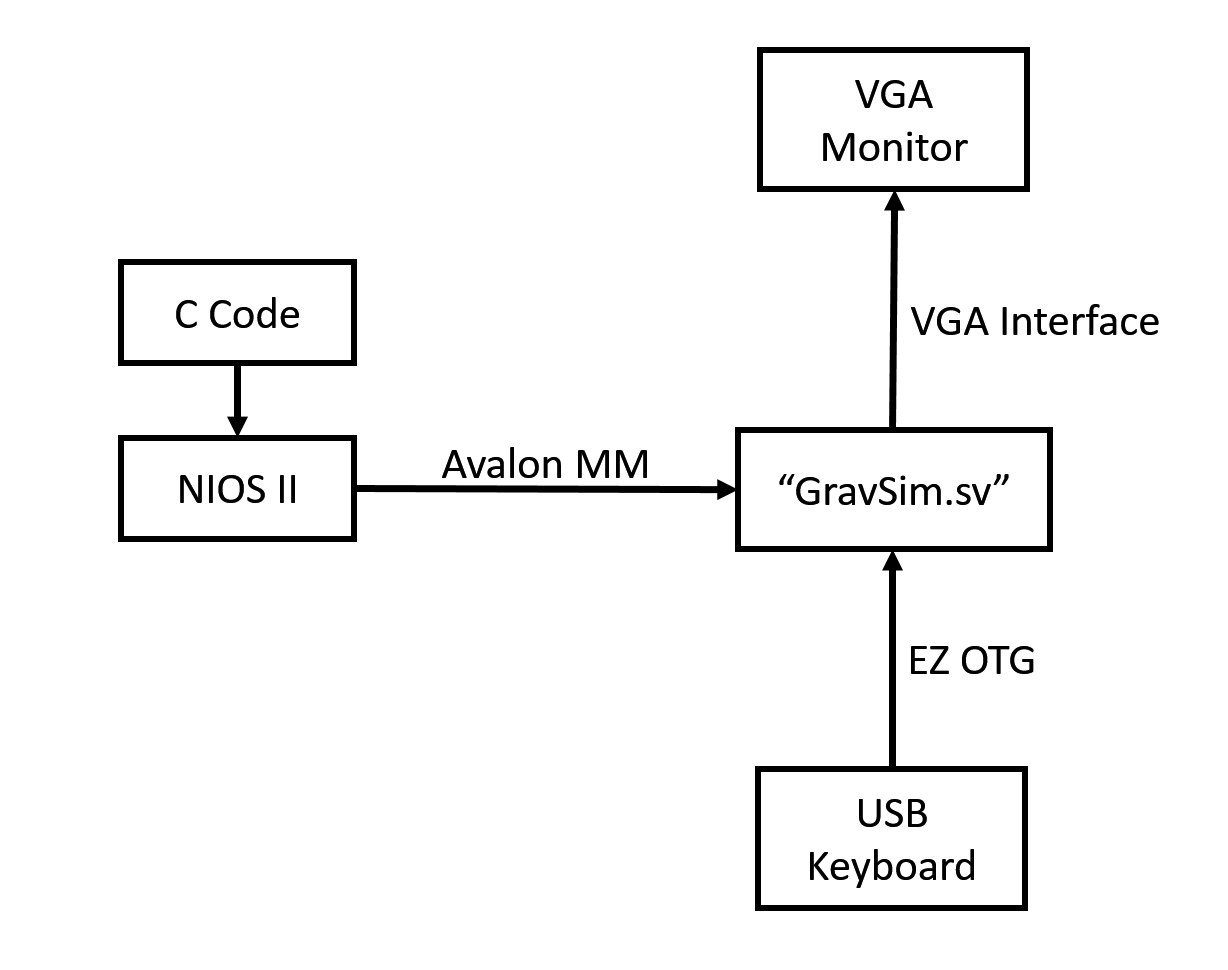
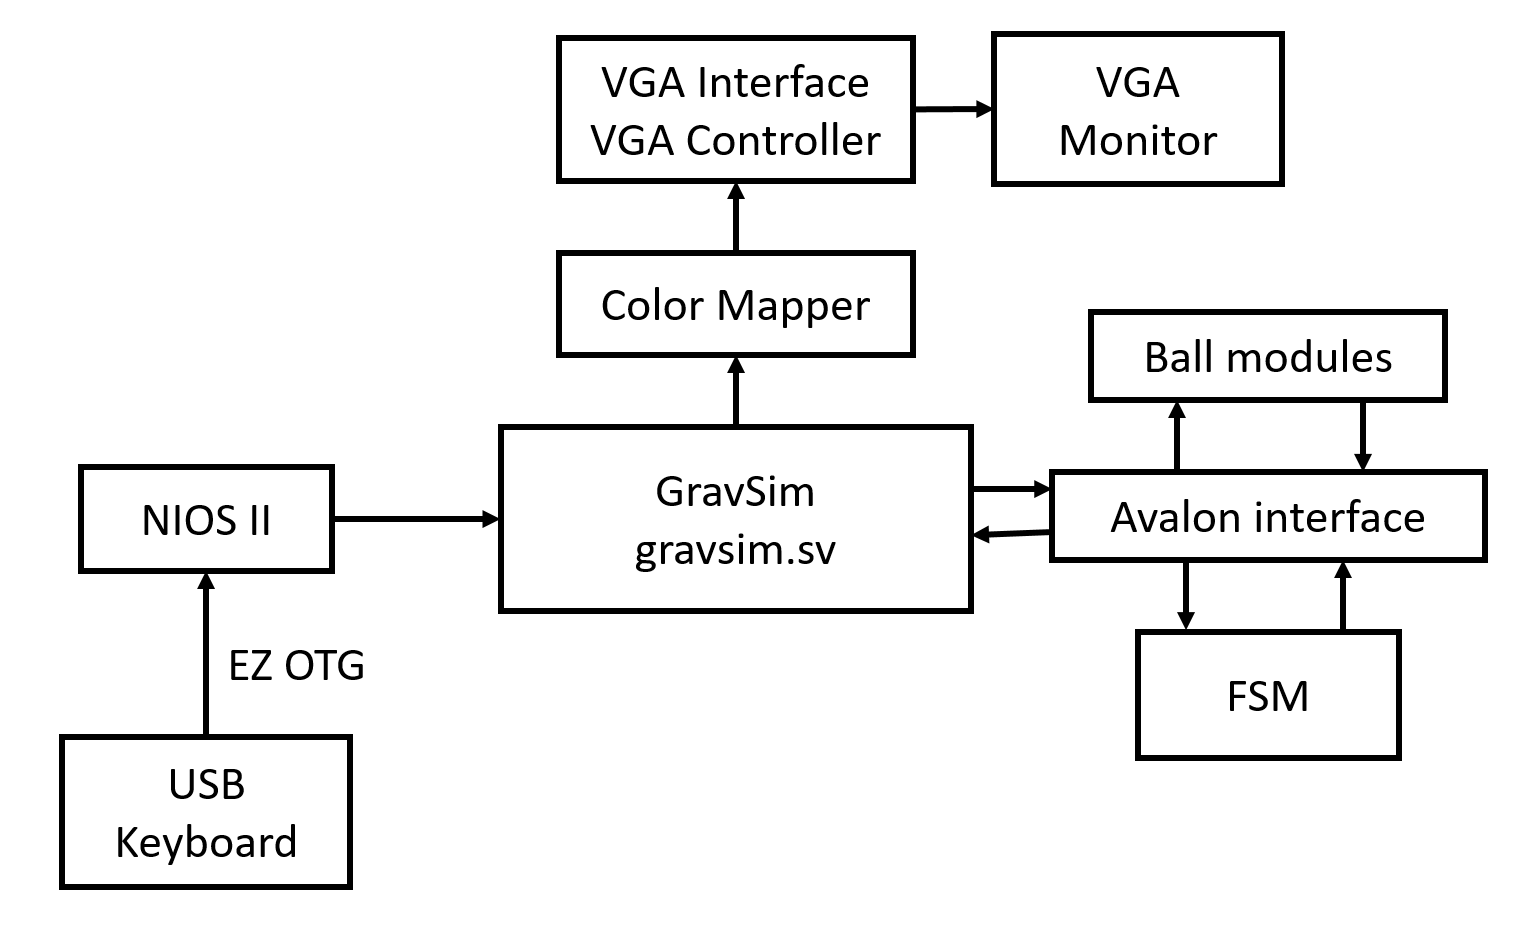
Finished the README

Changed region(s): [[0.0309, 0.0309, 0.9902, 0.9584], [0.5879, 0.8038, 0.6189, 0.9275], [0.3404, 0.2783, 0.3713, 0.371]]

diff --git a/README.md b/README.md
@@ -1,4 +1,5 @@
 # GravSim
+
 [![Build Status](https://travis-ci.org/scott0123/GravSim.svg?branch=master)](https://travis-ci.org/scott0123/GravSim)
 [![license](https://img.shields.io/github/license/mashape/apistatus.svg)](https://github.com/scott0123/GravSim/blob/master/LICENSE)
 [![GitHub stars](https://img.shields.io/github/stars/scott0123/GravSim.svg?style=social&label=Stars)](https://github.com/scott0123/GravSim)
@@ -6,14 +7,33 @@
 
 A gravitational simulation of the N-body problem using hardware acceleration from a FPGA.
 
-## Overview
-It is generally known that the famous n-body problem (see https://en.wikipedia.org/wiki/N-body\_problem) cannot be solved algebraically. The simulation of such a system is therefore a more pragmatic way of evaluating and predicting celestial movement. Our analysis shows that this problem has a computation complexity on the order of O(n^2) and each individual time-step can be simulated with the use of discrete mathematics. Although this variation of gravitational simulation is already well explored, the key difference between our project and existing implementations is that we use hardware-based acceleration from an FPGA to provide a remarkable boost in performance.
+## Introduction
+
+### Purpose
+
+Our team constructed a system in which the effect of gravity is simulated and imposed onto multiple planetary bodies in three dimensions.
+
+We believe that this project, GravSim, may well be of practical significance. It is generally known that the famous n-body problem cannot be solved algebraically. The simulation of such a system is therefore a more pragmatic way of evaluating and predicting celestial movement. Our analysis showed that this problem has a computation complexity on the order of O(n^2) and each individual time-step could be simulated with the use of discrete mathematics. 
+
+Although this variation of gravitational simulation has already been well explored, the key difference between our project and existing implementations is that we use hardware-based acceleration from an FPGA to provide a remarkable boost in performance.
 
 ![Block diagram](./images/block_diagram.png)
 
-The simulation will first be written in software and run on the NIOS II for a baseline control performance. Afterwards, the gravitational calculations will be ported to the FPGA for a significant perfomance boost. In both cases we will be using a VGA monitor to display the simulation.  User input will be taken from the USB keyboard, and will control the start/pause/reset of the simulation. The NIOS II processor will be used for remaining software overhead. The Avalon MM interfaces between the NIOS II and the FPGA.
+### Design Overview
 
-## Getting Started
+The simulation was first written in C and was run on the NIOS II for a performance baseline in software. The VGA monitor (as used in Lab 8) was configured to display the simulation. The gravity interaction calculations were then all ported over to the FPGA as an attempt to achieve a performance increase. User input from the USB keyboard (as in Lab 8) is taken to allow start/pause/reset of the simulation. The NIOS II was used for remaining software overhead such as initialization of the planet positions.The  Avalon MM Interface served as the bridge between the NIOS II and FPGA.
+
+The difficulty of the project arose when we started to consider the numerical system in which we needed to perform calculations. We had a couple of options in front of us: we could use integers, fixed point numbers, or floating point numbers. However, both integers and fixed point numbers would be far too imprecise due to the nature of gravitational simulations. In particular, a small fluctuation in the past would cause errors that increase exponentially in the future. As a result, our team decided that we need the precision of 32 bit floating point numbers that adhere to the IEEE 754 floating point standards.
+
+Unfortunately, there was no open source 32 bit floating point implementation for any hardware description languages such as SystemVerilog readily available online. Nevertheless, we did manage to salvage some work done on an implementation of different bit-length, and extended this into a working version of 32 bit IEEE 754.
+
+## Finite State Machine
+
+![Finite State Machine](./images/FSM.png)
+
+![Part of the Finite State Machine](./images/get_apply_acc.png)
+
+## Getting Started (Software)
 
 ### Prerequisites
 Mac:
@@ -30,7 +50,7 @@ or
 
 
 ### Running
-Navigate to the code directory
+Navigate to the C code directory
 
 `cd GravSim/code`
 
@@ -43,30 +63,105 @@ This will compile the main.c file along with its dependencies.
 Finally run the generated binary "test"
 
 `./test`
+
+## Getting Started (Hardware)
+
+### Prerequisites
+
+* Altera Quartus (software)
+* FPGA Cyclone series
+* Keyboard
+* VGA Monitor
+
+### Installing
+
+Download the project by navigating to the desired install directory and cloning this git repository using the command
+
+`git clone https://github.com/scott0123/GravSim.git`
+
+or
+
+`git clone git@github.com:scott0123/GravSim.git`
+
+### Running
+
+Navigate to the SystemVerilog code directory
+
+`cd GravSim/SV`
+
+Open the Quartus file `GravSim.qpf`
+
+Compile the hardware design in Quartus after setting `GravSim.sv` as the top level module.
+
+Push the generated *sof* file onto the FPGA.
+
+Run Eclipse and build the included `main.c` file.
+
+Run the configuration.
+
+## Demo (Hardware simulated)
+
+![GravSim demo 1](./images/final_demo.gif)
+
 ## Demo (C Simulated)
+
 ![GravSim demo 1](./images/4_harmony.gif)
 ![GravSim demo 2](./images/4_chaotic_1.gif)
 ![GravSim demo 3](./images/4_chaotic_2.gif)
 
 ## Demo (Unity simulated)
+
 ![GravSim unity demo 1](./images/4_body_demo_1.gif)
 ![GravSim unity demo 2](./images/4_body_demo_2.gif)
 
+
 ## Mathematics
+
+### Overview
+
 All operations are done under a right-hand Cartesian coordinate system with
 
 * the positive x direction pointing to the right of the screen
 * the positive y direction pointing to the top of the screen
 * the positive z direction protruding out of the screen
 
-The model operates under the assumption that the only force each planetary body is subject to at any point in time is purely gravitational in nature. The only exception to this rule is when two bodies collide, at which point alternative forces will be present.
+The model operates under the assumption that the only force each planetary body is subject to at any point in time is purely gravitational in nature. The only exception to this rule is when two bodies collide, at which point alternative forces will be present. (This ended up being not implemented due to timing constraints)
+
+### Numerical Methods
+
+We utilized the famous inverse square root shortcut in hardware first discovered by the developers of Quake. Here is a table of the approximation errors for a range of inputs:
+
+![Quake Error Table](./images/error_table.png)
+
+## Wave Simulation Diagrams
+
+![Wave simulation 1](./images/sim1.png)
+
+![Wave simulation 2](./images/sim2.png)
 
 ## Contributing
-Our team currently does not accept outside contributions. For inquiries please contact `gravsim@scott-liu.com`
+
+Our team currently does not accept outside contributions. Additionally, the project has officially ended on 03/05/2018. 
+
+For inquiries please contact `gravsim@scott-liu.com`
 
 ## License
+
 This project is licensed under the MIT License.
 You may copy, modify, and distribute it how you like.
 
+Please note that plagerism (especially in an academic context) is strictly forbidden. Please consult your supervisor if you wish to use any modules we have created.
+
 ## Acknowledgements
-TODO
+
+Main Authors
+
+* Scott Liu
+* Anish Bhattarcharya
+
+Inspired by
+
+* Skyler Schneider, Mark Eiding. *Simplified Floating Point for DSP Cyclone2 and Cyclone4*
+* Abul Hasnat, Tanima Bhattacharyya, Atanu Dey, Santanu Halder, Debotosh Bhattacharjee. *A Fast FPGA Based Architecture for Computation of Square Root and Inverse Square Root*
+* Altera Corporation. *Floating-Point IP Cores User Guide*
+* mcleod_ideafix *Stack Overflow answer*
